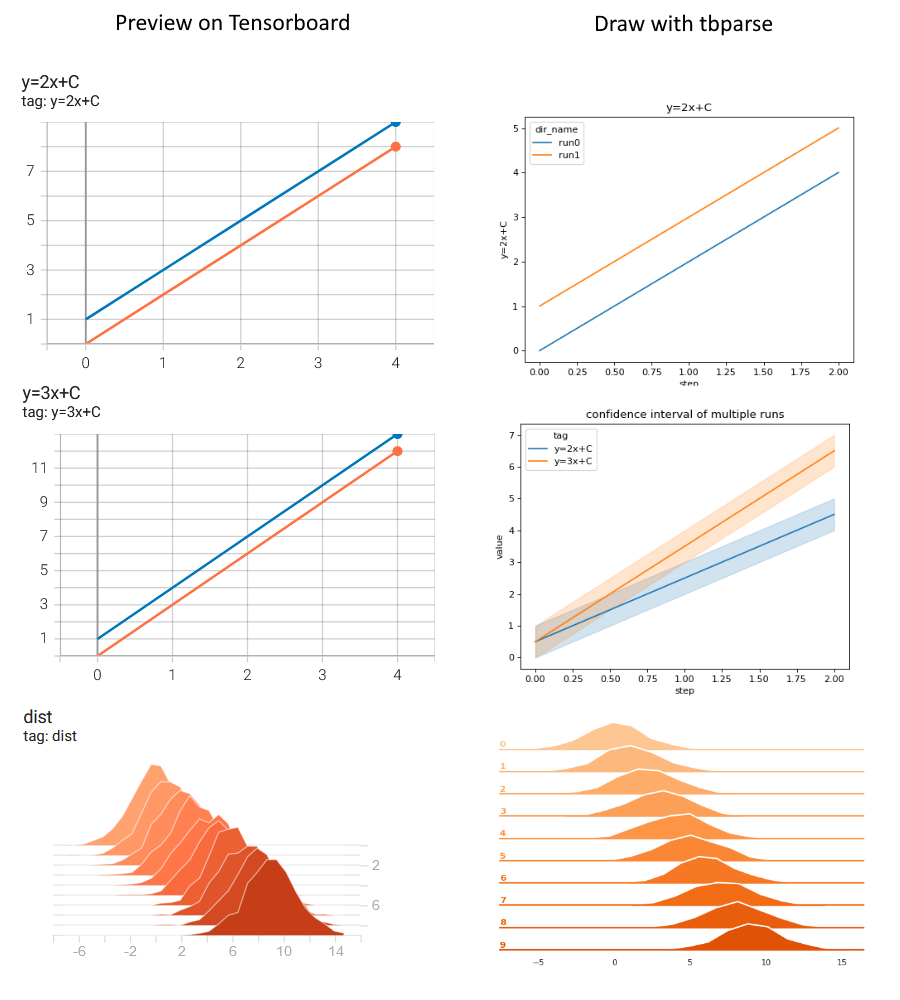
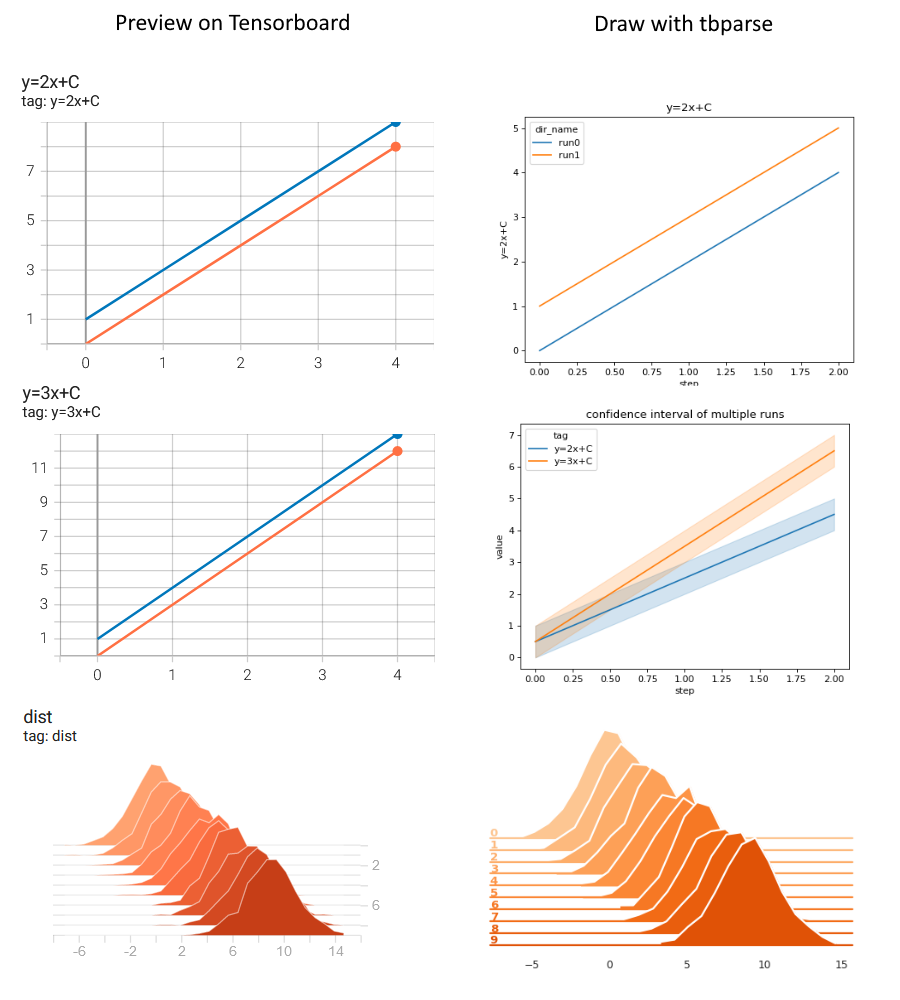
Make stacked histogram plot taller in docs

Changed region(s): [[0.5289, 0.713, 0.9644, 0.961]]

diff --git a/docs/pages/parsing-histograms.rst b/docs/pages/parsing-histograms.rst
@@ -277,15 +277,15 @@ Plotting Multiple (Stacked) Distributions
          # Choose color palettes for the distributions
          pal = sns.color_palette("Oranges", 20)[5:-5]
          # Initialize the FacetGrid object (stacking multiple plots)
-         g = sns.FacetGrid(df, row='step', hue='step', aspect=15, height=.5, palette=pal)
+         g = sns.FacetGrid(df, row='step', hue='step', aspect=15, height=.4, palette=pal)
 
          def plot_subplots(x, color, label, data):
            ax = plt.gca()
-           ax.text(0, .2, label, fontweight="bold", color=color,
+           ax.text(0, .08, label, fontweight="bold", color=color,
                    ha="left", va="center", transform=ax.transAxes)
            counts = data['dist/counts'].iloc[0]
            limits = data['dist/limits'].iloc[0]
-           x = np.linspace(limits[0], limits[-1], 11)
+           x = np.linspace(limits[0], limits[-1], 15)
            x, y = SummaryReader.histogram_to_pdf(counts, limits, x)
            # Draw the densities in a few steps
            sns.lineplot(x=x, y=y, clip_on=False, color="w", lw=2)
@@ -296,8 +296,8 @@ Plotting Multiple (Stacked) Distributions
          # Add a bottom line for each subplot
          # passing color=None to refline() uses the hue mapping
          g.refline(y=0, linewidth=2, linestyle="-", color=None, clip_on=False)
-         # Set the subplots to overlap
-         g.figure.subplots_adjust(hspace=-.25)
+         # Set the subplots to overlap (i.e., height of each distribution)
+         g.figure.subplots_adjust(hspace=-.9)
          # Remove axes details that don't play well with overlap
          g.set_titles("")
          g.set(yticks=[], xlabel="", ylabel="")
@@ -326,17 +326,17 @@ Plotting Multiple (Stacked) Distributions
          # Choose color palettes for the distributions
          pal = sns.color_palette("Oranges", 20)[5:-5]
          # Initialize the FacetGrid object (stacking multiple plots)
-         g = sns.FacetGrid(df, row='step', hue='step', aspect=15, height=.5, palette=pal)
+         g = sns.FacetGrid(df, row='step', hue='step', aspect=15, height=.4, palette=pal)
 
          def plot_subplots(x, color, label, data):
            ax = plt.gca()
-           ax.text(0, .2, label, fontweight="bold", color=color,
+           ax.text(0, .08, label, fontweight="bold", color=color,
                    ha="left", va="center", transform=ax.transAxes)
            buckets = data['dist'].iloc[0]
            hist_dict = SummaryReader.buckets_to_histogram_dict(buckets)
            counts = hist_dict['counts']
            limits = hist_dict['limits']
-           x = np.linspace(limits[0], limits[-1], 11)
+           x = np.linspace(limits[0], limits[-1], 15)
            x, y = SummaryReader.histogram_to_pdf(counts, limits, x)
            # Draw the densities in a few steps
            sns.lineplot(x=x, y=y, clip_on=False, color="w", lw=2)
@@ -348,7 +348,8 @@ Plotting Multiple (Stacked) Distributions
          # passing color=None to refline() uses the hue mapping
          g.refline(y=0, linewidth=2, linestyle="-", color=None, clip_on=False)
          # Set the subplots to overlap
-         g.figure.subplots_adjust(hspace=-.25)
+         # Set the subplots to overlap (i.e., height of each distribution)
+         g.figure.subplots_adjust(hspace=-.9)
          # Remove axes details that don't play well with overlap
          g.set_titles("")
          g.set(yticks=[], xlabel="", ylabel="")
